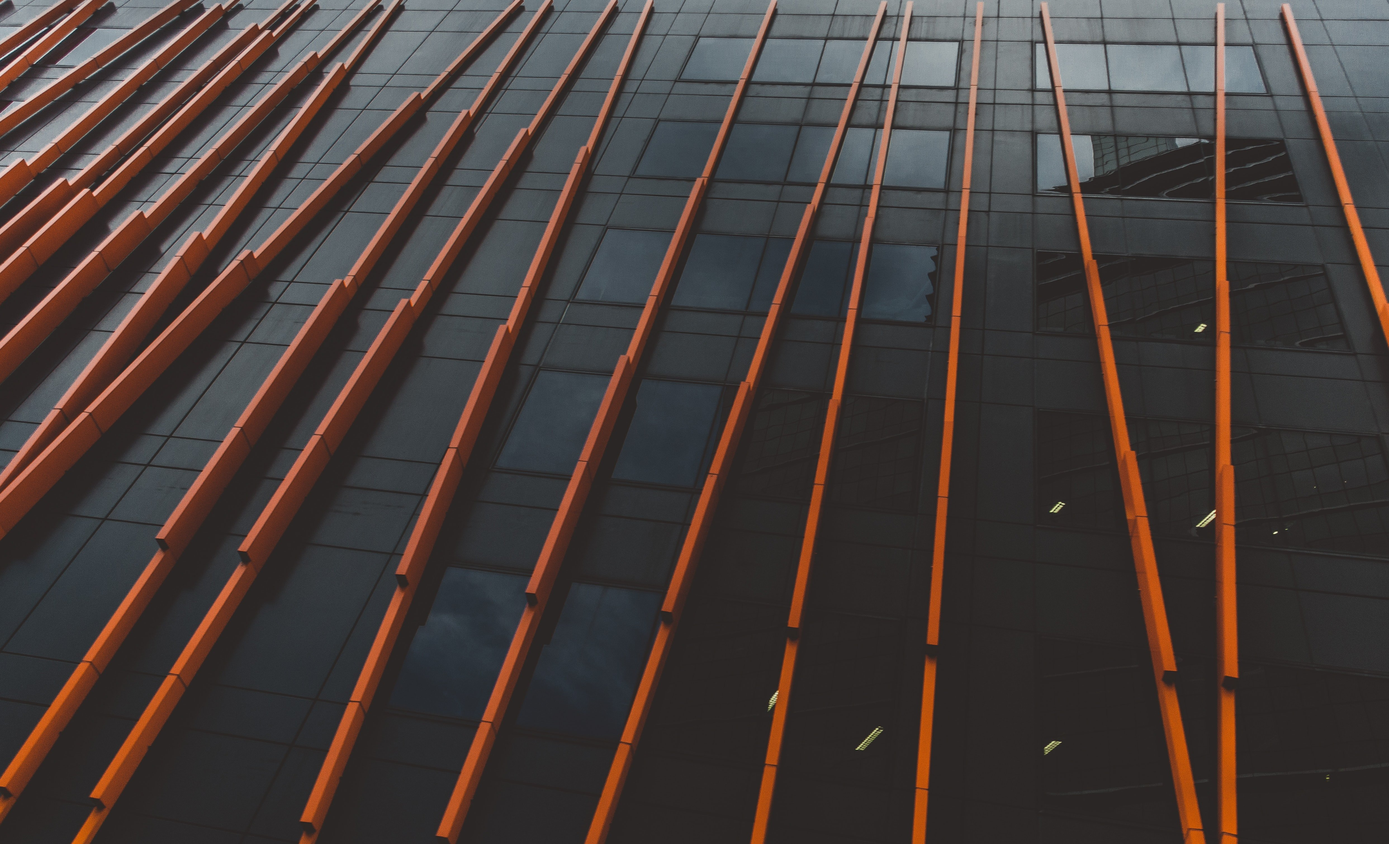
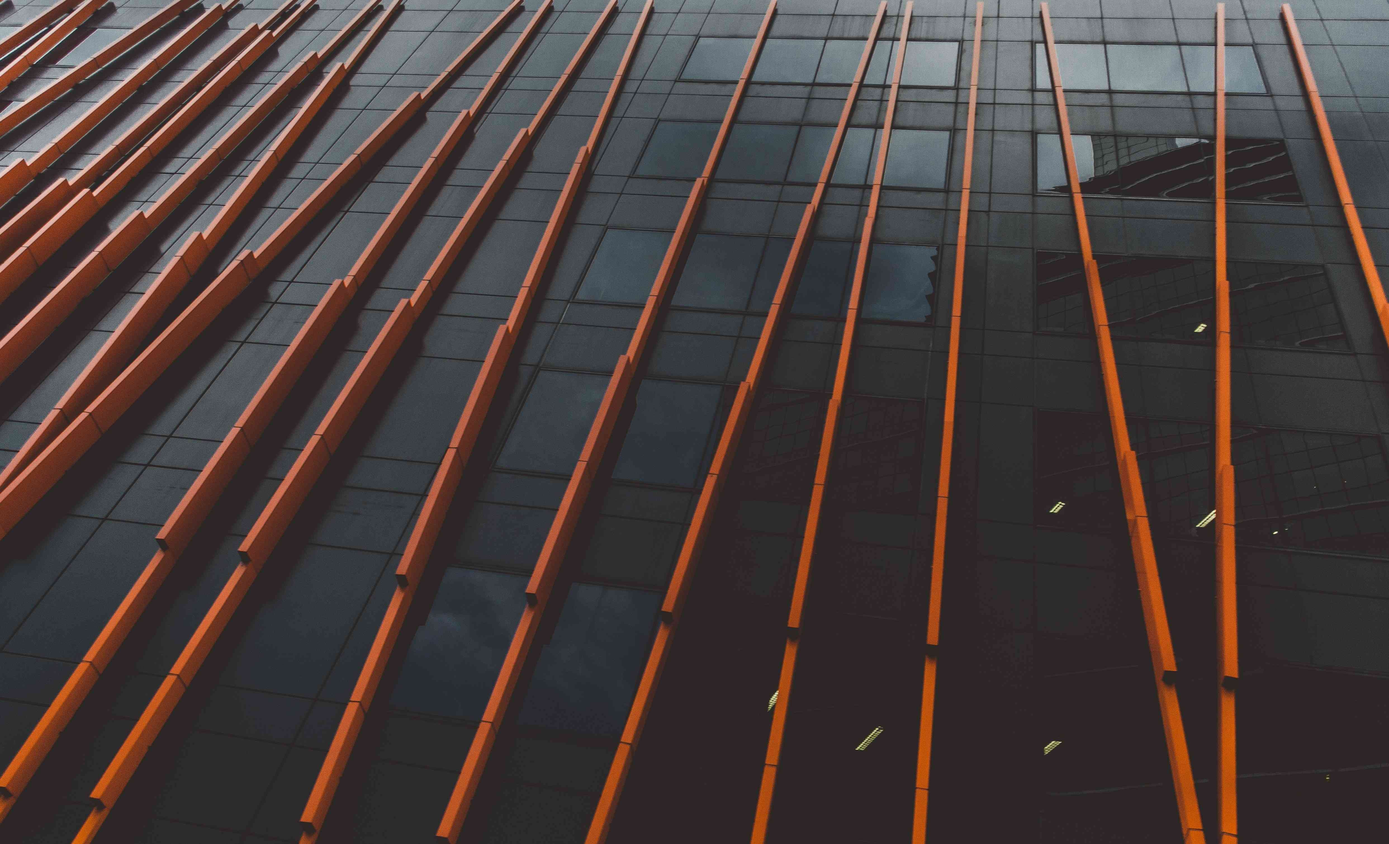
optimise cover image

diff --git a/posts/2018/2018-01-13-wsl-bootstrap/index.md b/posts/2018/2018-01-13-wsl-bootstrap/index.md
@@ -4,7 +4,7 @@ date: 2018-01-13
 title: Windows Subsystem Linux setup
 tags: ['information', 'guide', 'wsl', 'bash on windows', 'n', 'node']
 published: true
-cover: ./cover.png
+cover: ./cover.jpg
 ---
 
 I'm a Windows user, I have been a Linux user as well but I have found

diff --git a/posts/2018/2018-02-27-make-time-for-100doc/index.md b/posts/2018/2018-02-27-make-time-for-100doc/index.md
@@ -4,7 +4,7 @@ date: 2018-02-27
 title: How to make time for 100 days of code
 tags: ['information', 'guide', 'learning', 'habits']
 published: true
-cover: ./cover.png
+cover: ./cover.jpg
 ---
 
 > Life moves pretty fast. If you don’t stop and look around once in a

diff --git a/posts/2018/2018-11-29-gatsby-starter-to-styled-components/index.md b/posts/2018/2018-11-29-gatsby-starter-to-styled-components/index.md
@@ -5,7 +5,7 @@ title: Convert the Gatsby default starter to styled-components
 tags:
   ['information', 'learning', 'guide', 'gatsby', 'getting started']
 published: true
-cover: ./cover.png
+cover: ./cover.jpg
 coverCredit: Photo by CHU TAI on Unsplash
 ---
 

diff --git a/posts/2018/2018-11-30-job-hunt-dev-project/index.md b/posts/2018/2018-11-30-job-hunt-dev-project/index.md
@@ -4,7 +4,7 @@ date: '2018-11-30'
 title: 'Turning a job hunt into a dev project'
 tags: ['information', 'learning', 'career', 'ramble']
 published: true
-cover: ./cover.png
+cover: ./cover.jpg
 coverCredit: Photo by Marko Blažević on Unsplash
 ---
 

diff --git a/posts/2018/2018-05-22-react-context-api-with-gatsby/index.md b/posts/2018/2018-05-22-react-context-api-with-gatsby/index.md
@@ -5,7 +5,7 @@ title: Use the React Context API with Gatsby
 tags: ['information', 'learning', 'guide', 'gatsby', 'api']
 excerpt: ''
 published: true
-cover: ./cover.png
+cover: ./cover.jpg
 coverCredit: Photo by Robin Benzrihem on Unsplash
 ---
 

diff --git a/posts/2018/2018-11-25-graphcms-to-gatsby/index.md b/posts/2018/2018-11-25-graphcms-to-gatsby/index.md
@@ -13,7 +13,7 @@ tags:
     'graphcms',
   ]
 published: true
-cover: ./cover.png
+cover: ./cover.jpg
 coverCredit: Photo by Edu Lauton on Unsplash
 ---
 

diff --git a/posts/2018/2018-12-24-wsl-bootstrap-2019/index.md b/posts/2018/2018-12-24-wsl-bootstrap-2019/index.md
@@ -13,7 +13,7 @@ tags:
     'node',
   ]
 published: true
-cover: ./cover.png
+cover: ./cover.jpg
 coverCredit: Photo by Luana De Marco on Unsplash
 ---
 
